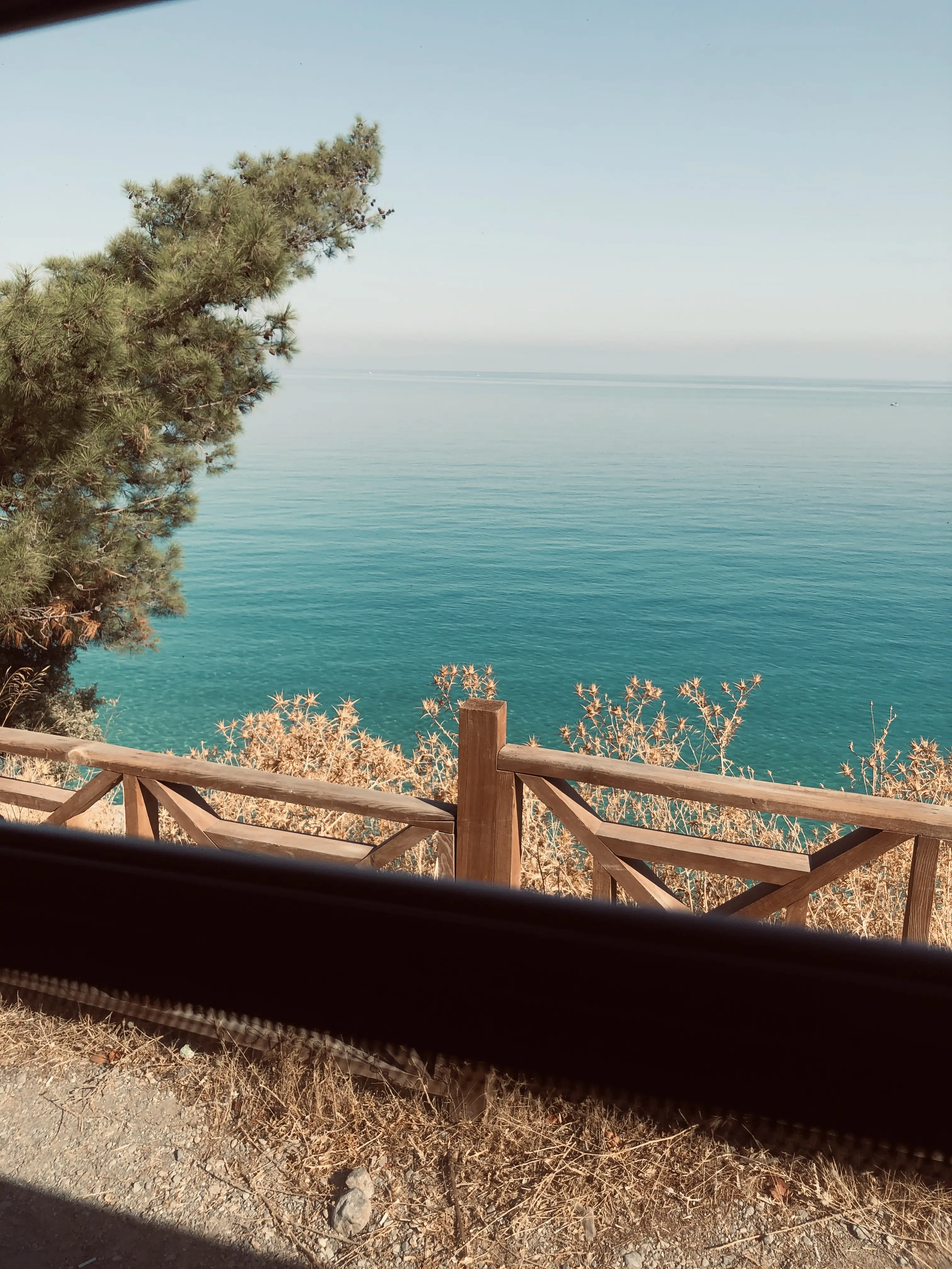
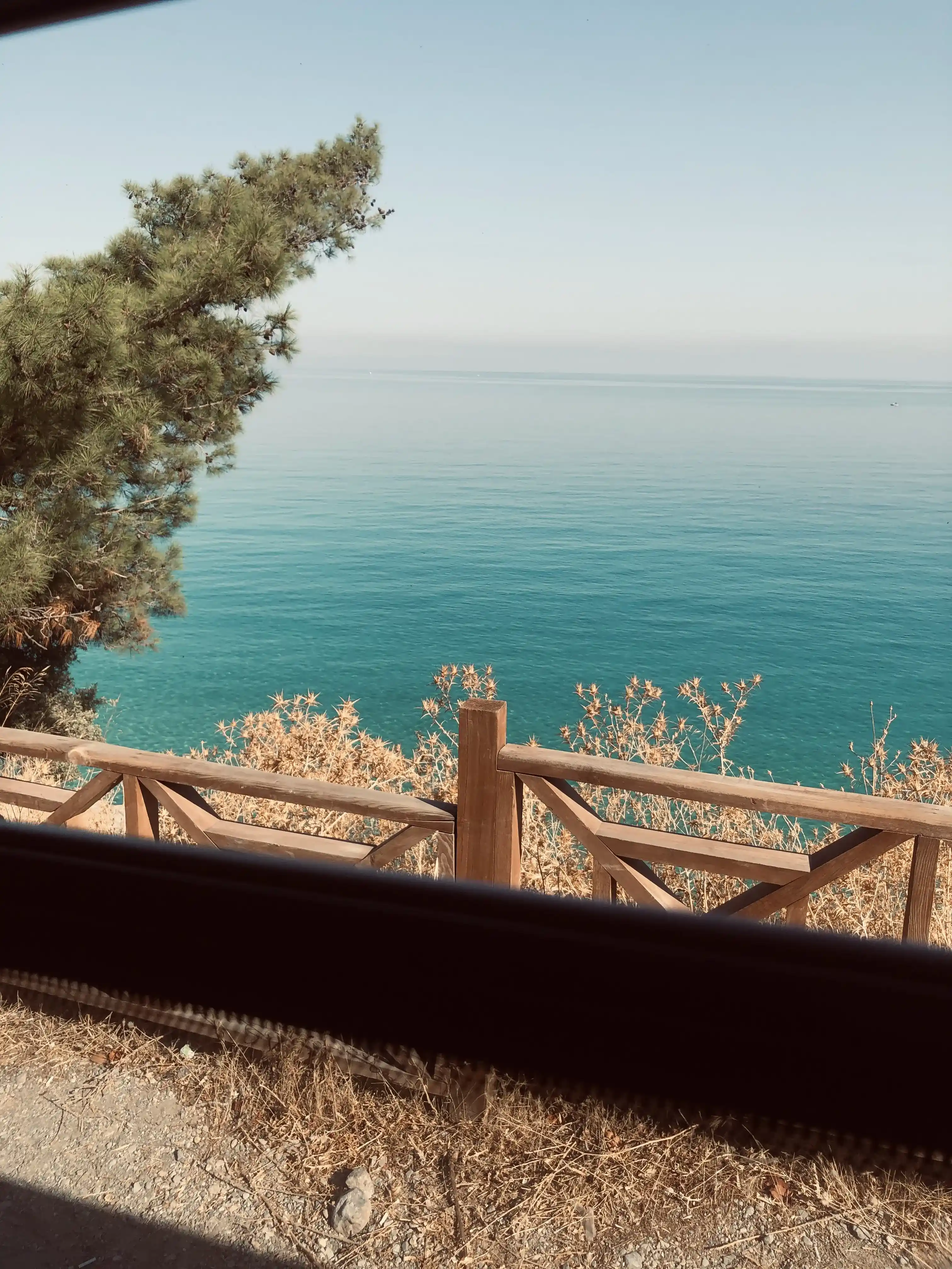
Optimize images

Changed region(s): [[0.9947, 0.5938, 1.0, 0.625]]

diff --git a/resources/js/Layouts/Partials/Header.vue b/resources/js/Layouts/Partials/Header.vue
@@ -14,8 +14,8 @@
                     </div>
                     <div class="flex-shrink-0 flex items-center md:mr-6">
                         <Link :href="route('welcome')">
-                            <img class="block lg:hidden h-7 w-auto" src="/media/logo.png" alt="tırnak içinde dergi"/>
-                            <img class="hidden lg:block h-7 w-auto" src="/media/logo.png" alt="tırnak içinde dergi"/>
+                            <img class="block lg:hidden h-7 w-auto" src="/media/logo.webp" alt="tırnak içinde dergi"/>
+                            <img class="hidden lg:block h-7 w-auto" src="/media/logo.webp" alt="tırnak içinde dergi"/>
                         </Link>
                     </div>
                     <div class="hidden md:ml-0 md:flex md:items-center md:space-x-4">

diff --git a/resources/js/Pages/Gallery/Index.vue b/resources/js/Pages/Gallery/Index.vue
@@ -9,7 +9,7 @@
                 <li class="relative">
                     <div
                         class="group block w-full aspect-w-10 aspect-h-7 rounded-lg bg-gray-100 focus-within:ring-2 focus-within:ring-offset-2 focus-within:ring-offset-gray-100 focus-within:ring-primary-500 overflow-hidden">
-                        <img :src="medium.source" :alt="medium.description"
+                        <img :src="medium.source" :alt="medium.description ?? medium.author"
                              class="object-cover pointer-events-none group-hover:opacity-75"/>
                         <button type="button" class="absolute inset-0 focus:outline-none">
                             <span class="sr-only">Detayları Görüntüle: {{ medium.title }}</span>

diff --git a/resources/js/Layouts/Master.vue b/resources/js/Layouts/Master.vue
@@ -9,7 +9,7 @@ import Footer from '@/Layouts/Partials/Footer.vue'
         <div class="min-h-screen bg-white rounded-md md:rounded lg:rounded-lg">
             <div class="p-0 md:p-6">
                 <Link :href="route('welcome')">
-                    <img src="/media/banner.png" width="940" height="198" alt=""
+                    <img src="/media/banner.webp" width="940" height="198" alt=""
                          class="border-t-8 border-secondary hidden md:flex"
                          sizes="(max-width: 940px) 100vw, 940px"/>
                 </Link>

diff --git a/resources/views/app.blade.php b/resources/views/app.blade.php
@@ -20,7 +20,8 @@
     <meta charset="utf-8">
     <meta name="viewport" content="width=device-width, initial-scale=1">
     <title inertia>{{ 'tırnak içinde dergi' }}</title>
-    <link href="https://fonts.googleapis.com/css2?family=Nunito:wght@400;600;700&display=swap" rel="stylesheet">
+    <link href="https://fonts.googleapis.com/css2?family=Nunito:wght@400;600;700&display=swap"
+          rel="preload" as="style" onload="this.onload=null;this.rel='stylesheet'">
     <link rel="apple-touch-icon" sizes="180x180" href="{{ asset('apple-touch-icon.png') }}">
     <link rel="icon" type="image/png" sizes="32x32" href="{{ asset('favicon-32x32.png') }}">
     <link rel="icon" type="image/png" sizes="16x16" href="{{ asset('favicon-16x16.png') }}">
